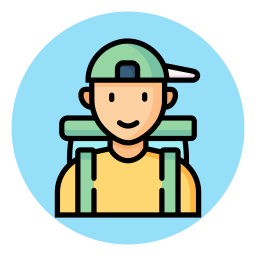
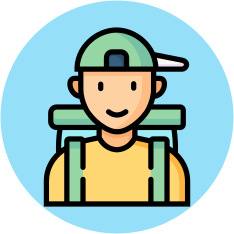
feat: 프로필 이미지 위치 조정

diff --git a/src/main/resources/static/css/styles2.css b/src/main/resources/static/css/styles2.css
@@ -103,9 +103,9 @@ footer p {font-weight: 300; font-size: 14px;}
 .my-page .page-section {padding-bottom: 0;}
 .my-page .page-section > .container > .div {margin-top: 1em;}
 .my-page .profile {max-height: 457px; border-radius: 12px; box-shadow: 0px 3px 12px 2px #7a7a7a54;}
-.my-page .profile .profile-image {overflow: hidden; position: relative;}
-.my-page .profile .profile-image .profile-image-inner {border-radius: 50%; border: 1px solid #ddd; width: 50%; height: 50%; margin: 3.7em auto 0;}
-.my-page .profile .profile-image .profile-image-inner .profile-image-circle img {width: 100%;}
+.my-page .profile .profile-image {position: relative;}
+.my-page .profile .profile-image .profile-image-inner {overflow: hidden; position: relative; width: 150px; height: 150px; margin: 3.5rem auto 0; border-radius: 50%;}
+.my-page .profile .profile-image .profile-image-inner img {position: absolute; top: 50%; left: 50%; transform: translate(-50%, -50%); width: 100%;}
 .my-page .profile .profile-image button {position: absolute; bottom: 0; right: 50px; transform: translate(-50%, -50%); width: 37px; height: 37px; border: 0; border-radius: 50%;}
 .my-page .profile .profile-image button img {width: 100%; padding: 2px; margin-top: -6px; margin-left: 1px;}
 .my-page .profile .profile-name {margin-top: 1em; margin-bottom: 2.5em; text-align: center;}

diff --git a/src/main/resources/templates/mypage.html b/src/main/resources/templates/mypage.html
@@ -26,9 +26,7 @@
                 <div class="profile col-md-4 mx-auto">
                     <div class="profile-image">
                         <div class="profile-image-inner">
-                            <div class="profile-image-circle">
-                                <img id="profile-image" src="/static/images/user-profile-basic.png" style="width: 152px; height: 150px; border-radius: 50%; object-fit: cover;" alt="">
-                            </div>
+                            <img id="profile-image" src="/static/images/user-profile-basic.png" alt="프로필 이미지">
                         </div>
                         <button id="upload-image-button">
                             <img src="/static/images/icon/icon-edit-image.png" alt="">
